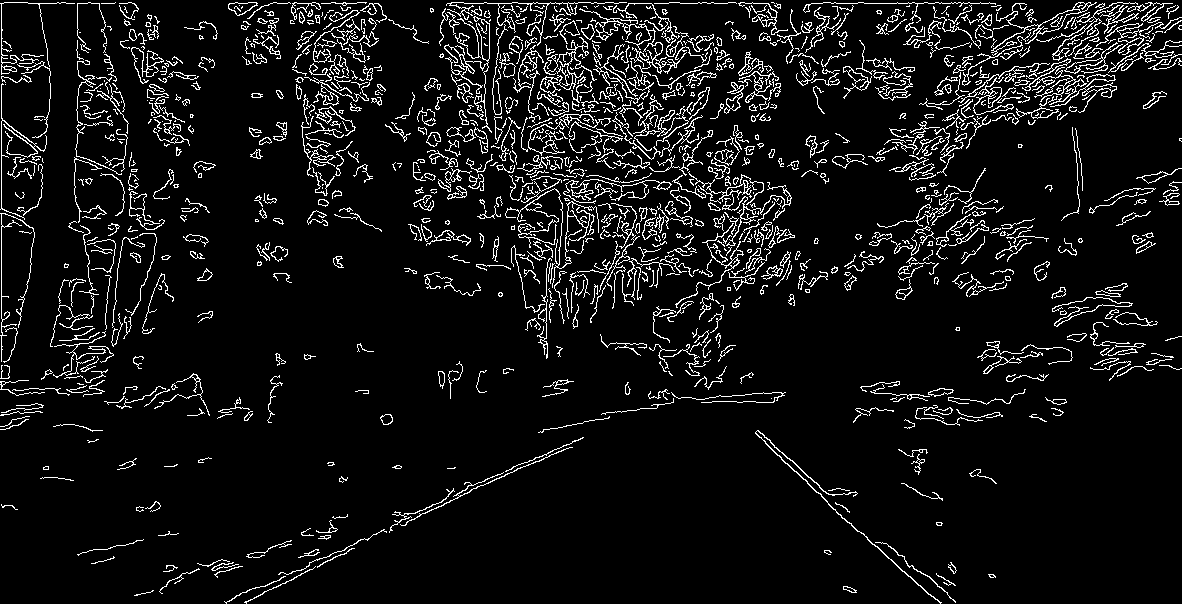
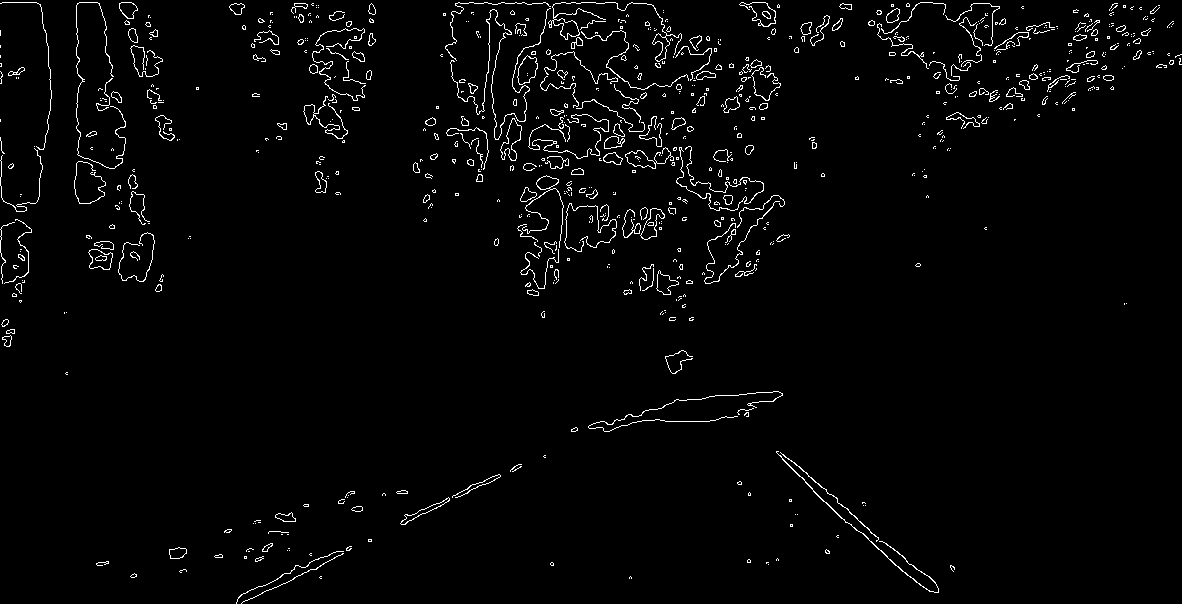
Canny _edge_work

diff --git a/Waypoint_generation/Canny_edge.py b/Waypoint_generation/Canny_edge.py
@@ -6,22 +6,177 @@ import numpy as np
 # Read the image
 im = cv2.imread('Waypoint_generation/Test.png')
 cv2.imshow('original', im)
-cv2.waitKey(0)
 gray = cv2.cvtColor(im, cv2.COLOR_BGR2GRAY)
 
 # Apply Gaussian blur
 blur = cv2.GaussianBlur(gray, (5, 5), 0)
+# cv2.imshow('blur', blur)
+
+im_bw = cv2.threshold(blur, 135, 200, cv2.THRESH_BINARY)[1]
+# cv2.imshow('bw', im_bw)
+
+v = np.median(im_bw)
+sigma = 0.33
+
+#---- apply optimal Canny edge detection using the computed median----
+lower_thresh = int(max(0, (1.0 - sigma) * v))
+upper_thresh = int(min(255, (1.0 + sigma) * v))
 
 # Apply Canny edge detection
-canny = cv2.Canny(blur, 50, 150)
+canny = cv2.Canny(im_bw, lower_thresh, upper_thresh)
 
 # Display the frame
-cv2.imshow('canny', canny)
+# cv2.imshow('canny', canny)
 cv2.imwrite('Waypoint_generation/canny.png', canny)
+row_index,column_index = np.nonzero(canny)
+
+mask = np.zeros(canny.shape, dtype=np.uint8)
+
+if len(canny.shape) > 2:
+        channel_count = canny.shape[2]
+        ignore_mask_color = (255,) * channel_count
+else:
+        ignore_mask_color = 255
+
+rows, cols = canny.shape[:2]
+bottom_left  = [cols * 0.25, rows * 0.95]
+top_left     = [cols * 0.4, rows * 0.8]
+bottom_right = [cols * 0.9, rows * 0.95]
+top_right    = [cols * 0.6, rows * 0.8]
+vertices = np.array([[bottom_left, top_left, top_right, bottom_right]], dtype=np.int32)
+
+cv2.fillPoly(mask, vertices, ignore_mask_color)
+masked_image = cv2.bitwise_and(canny, mask)
+cv2.imshow('masked', masked_image)
+
+rho = 1             
+    # Angle resolution of the accumulator in radians.
+theta = np.pi/180   
+# Only lines that are greater than threshold will be returned.
+threshold = 20      
+# Line segments shorter than that are rejected.
+minLineLength = 20  
+# Maximum allowed gap between points on the same line to link them
+maxLineGap = 500    
+# function returns an array containing dimensions of straight lines 
+# appearing in the input image
+hough = cv2.HoughLinesP(masked_image, rho = rho, theta = theta, threshold = threshold,
+                        minLineLength = minLineLength, maxLineGap = maxLineGap)
+# # Find the minimum and maximum row index
+# min_row_index = np.min(row_index)
+# max_row_index = np.max(row_index)
+# # for i in range(0, 10):
+# # find the row indices that are 30% above from bottom of the image
+# row_threshold = (max_row_index - min_row_index)
+# row_index_high = min_row_index + row_threshold
+
+# # find edges that correspond to the above rows
+# row_index_high = row_index[row_index >= row_index_high]
+# row_index_point, column_index_point = np.nonzero(canny[row_index_high, :])
+# row_index_mean = int(np.mean(row_index_point))
+
+# # Take mean of column indices
+# column_index_mean= int(np.mean(column_index_point))
+
+# # plot a plot at the above row_index and column_index
+# cv2.circle(im_crop, (row_index_mean, column_index_mean), 5, (0, 0, 255), -1)
+
+#     # # find column indices that correspond to the above rows
+#     # column_index_high = column_index[row_index_high]
+
+#     # # plot a plot at the midpoint of the above rows and columns
+#     # midpoint_row = int(np.mean(row_index_high))
+#     # midpoint_column = int(np.mean(column_index_high))
+#     # cv2.circle(im, (midpoint_column, midpoint_row), 5, (0, 0, 255), -1)
+
+def average_slope_intercept(lines):
+    """
+    Find the slope and intercept of the left and right lanes of each image.
+    Parameters:
+        lines: output from Hough Transform
+    """
+    left_lines    = [] #(slope, intercept)
+    left_weights  = [] #(length,)
+    right_lines   = [] #(slope, intercept)
+    right_weights = [] #(length,)
+     
+    for line in lines:
+        for x1, y1, x2, y2 in line:
+            if x1 == x2:
+                continue
+            # calculating slope of a line
+            slope = (y2 - y1) / (x2 - x1)
+            # calculating intercept of a line
+            intercept = y1 - (slope * x1)
+            # calculating length of a line
+            length = np.sqrt(((y2 - y1) ** 2) + ((x2 - x1) ** 2))
+            # slope of left lane is negative and for right lane slope is positive
+            if slope < 0:
+                left_lines.append((slope, intercept))
+                left_weights.append((length))
+            else:
+                right_lines.append((slope, intercept))
+                right_weights.append((length))
+    # 
+    left_lane  = np.dot(left_weights,  left_lines) / np.sum(left_weights)  if len(left_weights) > 0 else None
+    right_lane = np.dot(right_weights, right_lines) / np.sum(right_weights) if len(right_weights) > 0 else None
+    return left_lane, right_lane
+   
+def pixel_points(y1, y2, line):
+    """
+    Converts the slope and intercept of each line into pixel points.
+        Parameters:
+            y1: y-value of the line's starting point.
+            y2: y-value of the line's end point.
+            line: The slope and intercept of the line.
+    """
+    if line is None:
+        return None
+    slope, intercept = line
+    x1 = int((y1 - intercept)/slope)
+    x2 = int((y2 - intercept)/slope)
+    y1 = int(y1)
+    y2 = int(y2)
+    return ((x1, y1), (x2, y2))
+   
+def lane_lines(image, lines):
+    """
+    Create full lenght lines from pixel points.
+        Parameters:
+            image: The input test image.
+            lines: The output lines from Hough Transform.
+    """
+    left_lane, right_lane = average_slope_intercept(lines)
+    y1 = image.shape[0]
+    y2 = y1 * 0.6
+    left_line  = pixel_points(y1, y2, left_lane)
+    right_line = pixel_points(y1, y2, right_lane)
+    return left_line, right_line
+ 
+     
+def draw_lane_lines(image, lines, color=[255, 0, 0], thickness=12):
+    """
+    Draw lines onto the input image.
+        Parameters:
+            image: The input test image (video frame in our case).
+            lines: The output lines from Hough Transform.
+            color (Default = red): Line color.
+            thickness (Default = 12): Line thickness. 
+    """
+    line_image = np.zeros_like(image)
+    for line in lines:
+        if line is not None:
+            cv2.line(line_image, *line,  color, thickness)
+    return cv2.addWeighted(image, 1.0, line_image, 1.0, 0.0)
+
+result = draw_lane_lines(im, lane_lines(im, hough))
+
+cv2.imshow('result', result)
+cv2.imshow('midpoint', im)
 cv2.waitKey(0)
 
 # Find contours
-contours, hierarchy = cv2.findContours(canny, cv2.RETR_TREE, cv2.CHAIN_APPROX_SIMPLE)
+contours, hierarchy = cv2.findContours(masked_image, cv2.RETR_TREE, cv2.CHAIN_APPROX_SIMPLE)
 cv2.drawContours(im, contours, -1, (0, 255, 0), 3)
 cv2.imshow('contours', im)
 cv2.imwrite('Waypoint_generation/contours.png', im)
